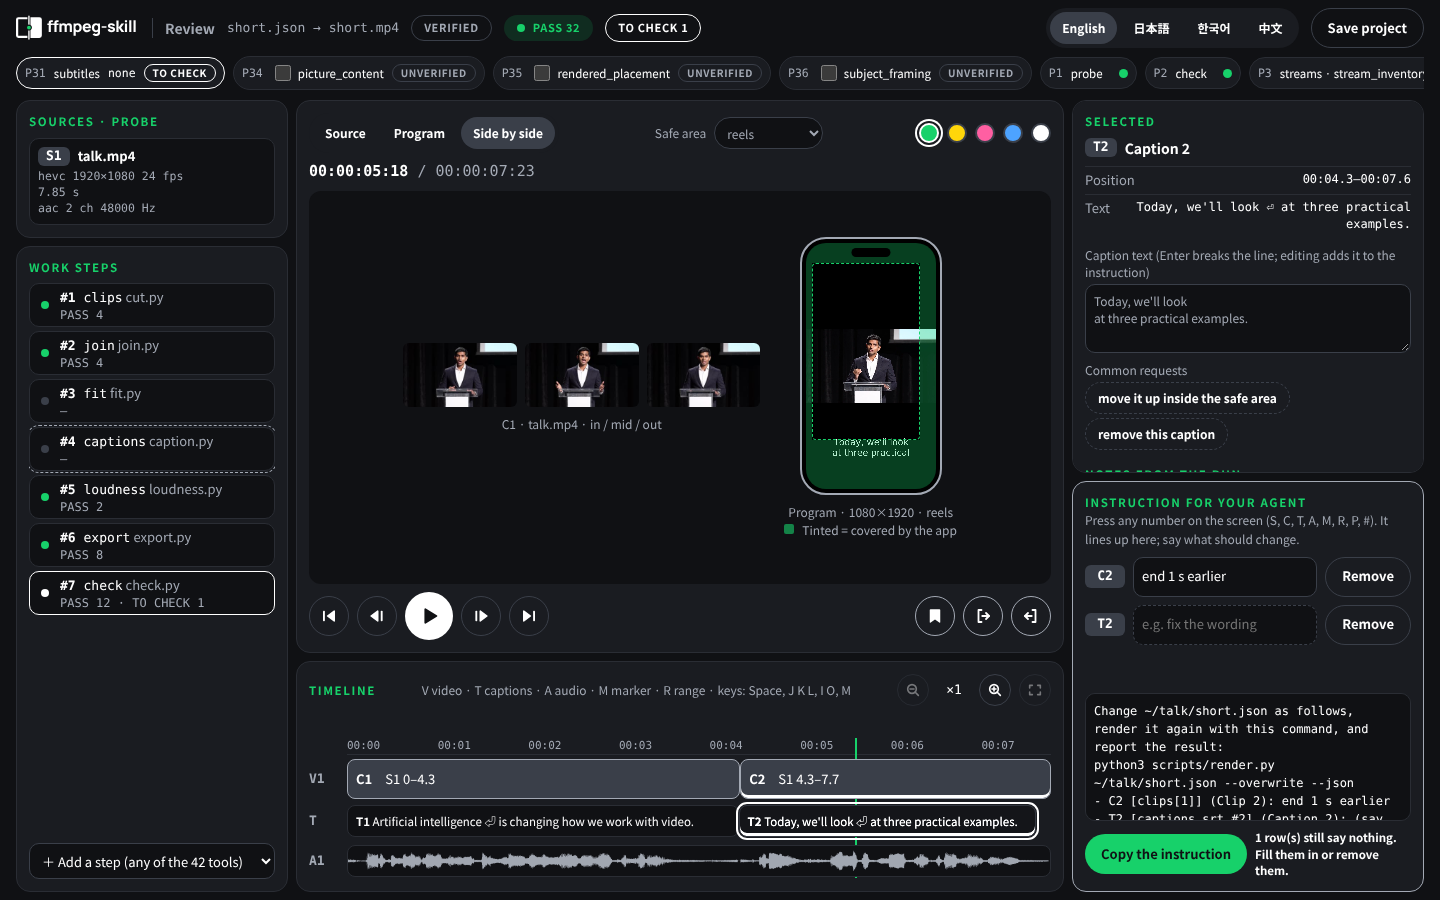
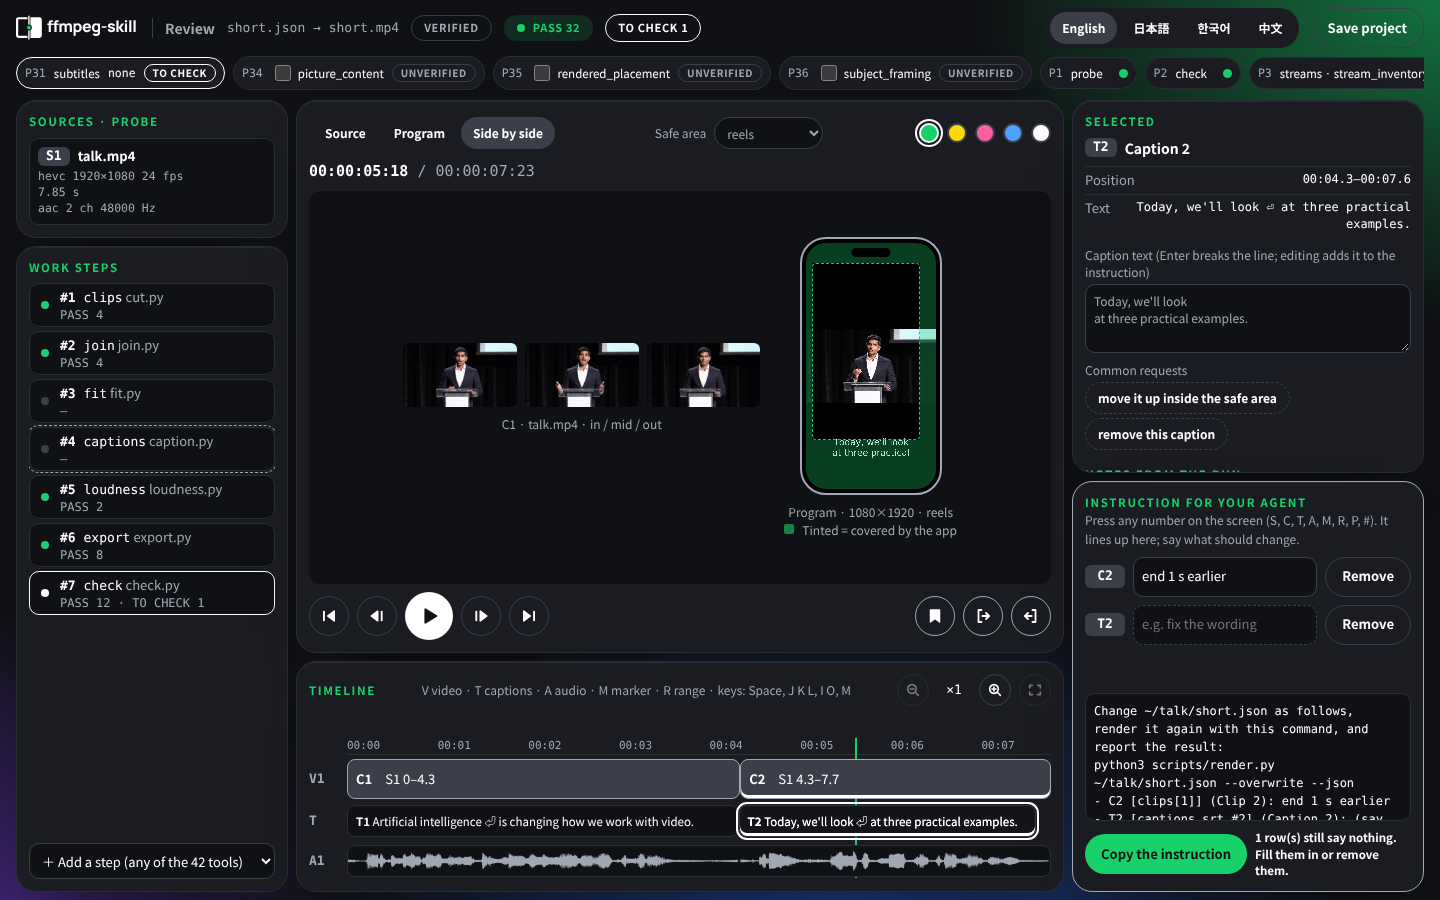
feat(review): the review page has the site's ground
Three soft glows behind the panels and rounder panel corners (20px). The panels stay opaque, so
the small type and the check results keep their contrast; the layout is unchanged. The site's
screenshots of the page are retaken.

Claude-Session: https://claude.ai/code/session_013tPrsGXLuaGU7t643QNUZs

Changed region(s): [[0.3438, 0.84, 0.8438, 1.0], [0.75, 0.0, 1.0, 0.2489], [0.0, 0.7778, 0.1562, 1.0]]

diff --git a/scripts/_review.html b/scripts/_review.html
@@ -11,7 +11,7 @@
   --green: #17d16a; --green-halo: rgba(23, 209, 106, 0.14);
   --sans: system-ui, -apple-system, "Segoe UI", "Hiragino Sans", "Yu Gothic UI", "Apple SD Gothic Neo", "Malgun Gothic", "PingFang SC", "Microsoft YaHei", "Noto Sans CJK JP", sans-serif;
   --mono: ui-monospace, SFMono-Regular, Menlo, Consolas, monospace;
-  --r: 14px;
+  --r: 20px;
 }
 html, body { height: 100%; }
 body { background: var(--ink); color: var(--text); font: 13px/1.45 var(--sans); font-variant-numeric: tabular-nums; }
@@ -189,6 +189,9 @@ textarea.field.area { min-height: 64px; padding: 8px 8px; resize: vertical; font
 .aud img { position: absolute; inset: 0; width: 100%; height: 100%; object-fit: fill; }
 .srcs { display: flex; flex-direction: column; gap: 8px; max-height: 210px; overflow-y: auto; }
 label.opt { gap: 4px; }
+/* the site's ground: three soft glows behind opaque panels, so the small type keeps its contrast */
+body { background: radial-gradient(46vw 460px at 100% 0, rgba(23,209,106,.50), transparent 70%), radial-gradient(52vw 520px at 58% 105%, rgba(37,99,235,.50), transparent 70%), radial-gradient(34vw 420px at 0 100%, rgba(124,58,237,.40), transparent 70%), var(--ink); background-attachment: fixed; }
+.panel { box-shadow: 0 1px 0 rgba(255,255,255,.06) inset, 0 24px 64px -40px rgba(0,0,0,.8); }
 </style></head><body>
 <template id="logo"><svg xmlns="http://www.w3.org/2000/svg" viewBox="0 0 902 256" class="logo" role="img" aria-label="ffmpeg-skill"><title>ffmpeg-skill</title><g transform="translate(-34,0)"><path fill="#FFFFFF" fill-rule="evenodd" d="M117.0,52 H52 A18,18 0 0 0 34,70 V186 A18,18 0 0 0 52,204 H117.0 V188 H52 A2,2 0 0 1 50,186 V70 A2,2 0 0 1 52,68 H117.0 Z M139.0,52 H204 A18,18 0 0 1 222,70 V186 A18,18 0 0 1 204,204 H139.0 V147.05 A22,22 0 0 0 139.0,108.95 Z M123.0,45.0 A5.0,5.0 0 0 1 133.0,45.0 V106.58 A22,22 0 0 0 123.0,106.58 Z M123.0,149.42 A22,22 0 0 0 133.0,149.42 V211.0 A5.0,5.0 0 0 1 123.0,211.0 Z"/><path fill="#17D16A" fill-rule="evenodd" d="M114,128 A14,14 0 1 0 142,128 A14,14 0 1 0 114,128 Z"/></g><g transform="translate(228.00,75.07) scale(1.1544303797468354)"><path fill="#FFFFFF" transform="translate(-3.00,73.50)" d="M11.5 0.0V-53.800000000000004Q11.5 -55.85 11.600000000000001 -58.45Q11.700000000000001 -61.050000000000004 12.425 -63.7Q13.15 -66.35000000000001 15.100000000000001 -68.5Q17.6 -71.3 20.525000000000002 -72.325Q23.450000000000003 -73.35000000000001 26.200000000000003 -73.42500000000001Q28.950000000000003 -73.5 30.900000000000002 -73.5H37.6V-62.5H31.400000000000002Q28.200000000000003 -62.5 26.650000000000002 -60.875Q25.1 -59.25 25.1 -57.0V0.0ZM3.0 -43.5V-54.0H37.6V-43.5ZM47.6 0.0V-53.800000000000004Q47.6 -55.85 47.7 -58.45Q47.800000000000004 -61.050000000000004 48.525000000000006 -63.7Q49.25 -66.35000000000001 51.2 -68.5Q53.7 -71.3 56.625 -72.325Q59.550000000000004 -73.35000000000001 62.30000000000001 -73.42500000000001Q65.05000000000001 -73.5 67.0 -73.5H73.7V-62.5H67.5Q64.30000000000001 -62.5 62.75000000000001 -60.875Q61.2 -59.25 61.2 -57.0V0.0ZM39.1 -43.5V-54.0H73.7V-43.5ZM144.2 0.0V-31.900000000000002Q144.2 -37.25 141.675 -40.225Q139.15 -43.2 134.7 -43.2Q131.85000000000002 -43.2 129.75 -41.875Q127.65 -40.550000000000004 126.47500000000001 -38.175000000000004Q125.30000000000001 -35.800000000000004 125.30000000000001 -32.7L119.60000000000001 -36.5Q119.60000000000001 -42.050000000000004 122.22500000000001 -46.300000000000004Q124.85000000000001 -50.550000000000004 129.275 -52.925000000000004Q133.7 -55.300000000000004 139.10000000000002 -55.300000000000004Q148.35000000000002 -55.300000000000004 153.07500000000002 -49.825Q157.8 -44.35 157.8 -35.5V0.0ZM79.10000000000001 0.0V-54.0H91.10000000000001V-36.1H92.80000000000001V0.0ZM111.7 0.0V-31.900000000000002Q111.7 -37.25 109.17500000000001 -40.225Q106.65 -43.2 102.2 -43.2Q97.95 -43.2 95.375 -40.275000000000006Q92.80000000000001 -37.35 92.80000000000001 -32.7L87.10000000000001 -36.7Q87.10000000000001 -42.0 89.75 -46.2Q92.4 -50.400000000000006 96.875 -52.85000000000001Q101.35000000000001 -55.300000000000004 106.9 -55.300000000000004Q113.25 -55.300000000000004 117.325 -52.60000000000001Q121.4 -49.900000000000006 123.35000000000001 -45.400000000000006Q125.30000000000001 -40.900000000000006 125.30000000000001 -35.5V0.0ZM194.8 1.5Q186.75 1.5 181.35000000000002 -2.25Q175.95000000000002 -6.0 173.22500000000002 -12.450000000000001Q170.5 -18.900000000000002 170.5 -27.0Q170.5 -35.1 173.2 -41.55Q175.9 -48.0 181.15 -51.75Q186.4 -55.5 194.10000000000002 -55.5Q201.85000000000002 -55.5 207.60000000000002 -51.8Q213.35000000000002 -48.1 216.52500000000003 -41.675Q219.70000000000002 -35.25 219.70000000000002 -27.0Q219.70000000000002 -18.900000000000002 216.57500000000002 -12.450000000000001Q213.45000000000002 -6.0 207.85000000000002 -2.25Q202.25 1.5 194.8 1.5ZM168.20000000000002 24.0V-54.0H180.20000000000002V-17.0H181.9V24.0ZM192.60000000000002 -10.600000000000001Q197.0 -10.600000000000001 199.8 -12.8Q202.60000000000002 -15.0 203.95000000000002 -18.725Q205.3 -22.450000000000003 205.3 -27.0Q205.3 -31.5 203.9 -35.225Q202.5 -38.95 199.575 -41.175000000000004Q196.65 -43.400000000000006 192.10000000000002 -43.400000000000006Q187.85000000000002 -43.400000000000006 185.22500000000002 -41.35000000000001Q182.60000000000002 -39.300000000000004 181.40000000000003 -35.6Q180.20000000000002 -31.900000000000002 180.20000000000002 -27.0Q180.20000000000002 -22.1 181.40000000000003 -18.400000000000002Q182.60000000000002 -14.700000000000001 185.32500000000002 -12.650000000000002Q188.05 -10.600000000000001 192.60000000000002 -10.600000000000001ZM253.3 1.5Q245.00000000000003 1.5 238.675 -2.075Q232.35000000000002 -5.65 228.77500000000003 -11.925Q225.20000000000002 -18.2 225.20000000000002 -26.3Q225.20000000000002 -35.15 228.70000000000002 -41.7Q232.20000000000002 -48.25 238.35000000000002 -51.875Q244.50000000000003 -55.5 252.50000000000003 -55.5Q261.0 -55.5 266.95000000000005 -51.5Q272.90000000000003 -47.5 275.75 -40.25Q278.6 -33.0 277.75 -23.200000000000003H264.3V-28.200000000000003Q264.3 -36.45 261.675 -40.075Q259.05 -43.7 253.10000000000002 -43.7Q246.15000000000003 -43.7 242.87500000000003 -39.475Q239.60000000000002 -35.25 239.60000000000002 -27.0Q239.60000000000002 -19.450000000000003 242.87500000000003 -15.325000000000003Q246.15000000000003 -11.200000000000001 252.50000000000003 -11.200000000000001Q256.5 -11.200000000000001 259.35 -12.950000000000001Q262.20000000000005 -14.700000000000001 263.70000000000005 -18.0L277.3 -14.100000000000001Q274.25 -6.7 267.675 -2.6Q261.1 1.5 253.3 1.5ZM235.4 -23.200000000000003V-33.300000000000004H271.20000000000005V-23.200000000000003ZM309.6 25.5Q305.0 25.5 300.85 24.025Q296.7 22.55 293.42499999999995 19.925Q290.15 17.3 288.1 13.8L300.7 7.7Q302.0 10.100000000000001 304.425 11.350000000000001Q306.85 12.600000000000001 309.7 12.600000000000001Q312.75 12.600000000000001 315.45 11.575000000000001Q318.15 10.55 319.775 8.525Q321.4 6.5 321.3 3.5V-12.200000000000001H323.0V-54.0H334.9V3.7Q334.9 5.7 334.725 7.475Q334.55 9.25 334.1 11.0Q332.8 15.950000000000001 329.275 19.150000000000002Q325.75 22.35 320.65 23.925Q315.55 25.5 309.6 25.5ZM308.4 1.5Q300.95 1.5 295.35 -2.25Q289.75 -6.0 286.625 -12.450000000000001Q283.5 -18.900000000000002 283.5 -27.0Q283.5 -35.25 286.675 -41.675Q289.85 -48.1 295.6 -51.8Q301.35 -55.5 309.1 -55.5Q316.8 -55.5 322.05 -51.75Q327.3 -48.0 330.0 -41.55Q332.7 -35.1 332.7 -27.0Q332.7 -18.900000000000002 329.975 -12.450000000000001Q327.25 -6.0 321.85 -2.25Q316.45 1.5 308.4 1.5ZM310.6 -10.600000000000001Q315.15 -10.600000000000001 317.875 -12.650000000000002Q320.6 -14.700000000000001 321.8 -18.400000000000002Q323.0 -22.1 323.0 -27.0Q323.0 -31.900000000000002 321.8 -35.6Q320.6 -39.300000000000004 317.975 -41.35000000000001Q315.35 -43.400000000000006 311.1 -43.400000000000006Q306.55 -43.400000000000006 303.625 -41.175000000000004Q300.7 -38.95 299.29999999999995 -35.225Q297.9 -31.5 297.9 -27.0Q297.9 -22.450000000000003 299.25 -18.725Q300.6 -15.0 303.4 -12.8Q306.2 -10.600000000000001 310.6 -10.600000000000001ZM345.4 -26.3V-36.800000000000004H375.4V-26.3ZM407.0 1.5Q396.79999999999995 1.5 390.525 -3.125Q384.25 -7.75 382.9 -16.2L396.79999999999995 -18.3Q397.65 -14.5 400.575 -12.350000000000001Q403.5 -10.200000000000001 408.0 -10.200000000000001Q411.7 -10.200000000000001 413.7 -11.625Q415.7 -13.05 415.7 -15.600000000000001Q415.7 -17.2 414.9 -18.175Q414.09999999999997 -19.150000000000002 411.32499999999993 -20.1Q408.54999999999995 -21.05 402.7 -22.6Q396.09999999999997 -24.3 392.15 -26.4Q388.2 -28.5 386.45 -31.425Q384.7 -34.35 384.7 -38.5Q384.7 -43.7 387.35 -47.525000000000006Q390.0 -51.35 394.825 -53.425Q399.65 -55.5 406.2 -55.5Q412.54999999999995 -55.5 417.44999999999993 -53.55Q422.34999999999997 -51.6 425.375 -48.0Q428.4 -44.400000000000006 429.09999999999997 -39.5L415.2 -37.0Q414.84999999999997 -40.0 412.59999999999997 -41.75Q410.34999999999997 -43.5 406.5 -43.800000000000004Q402.75 -44.050000000000004 400.475 -42.800000000000004Q398.2 -41.550000000000004 398.2 -39.2Q398.2 -37.800000000000004 399.17499999999995 -36.85Q400.15 -35.9 403.22499999999997 -34.9Q406.29999999999995 -33.9 412.59999999999997 -32.300000000000004Q418.75 -30.700000000000003 422.475 -28.575000000000003Q426.2 -26.450000000000003 427.9 -23.475Q429.59999999999997 -20.5 429.59999999999997 -16.3Q429.59999999999997 -8.0 423.59999999999997 -3.25Q417.59999999999997 1.5 407.0 1.5ZM437.99999999999994 0.0 438.09999999999997 -72.0H451.9V-28.0L470.2 -54.0H487.0L467.49999999999994 -27.0L488.29999999999995 0.0H470.59999999999997L451.9 -26.0V0.0ZM491.79999999999995 -61.5V-73.5H505.4V-61.5ZM491.79999999999995 0.0V-54.0H505.4V0.0ZM518.9 0.0V-73.5H532.5V0.0ZM546.0 0.0V-73.5H559.6V0.0Z"/></g></svg></template>
 <div id="app"></div>

diff --git a/CHANGELOG.md b/CHANGELOG.md
@@ -4,6 +4,7 @@
 
 ## Unreleased
 
+- **The review page has the site's ground.** Three soft glows sit behind the panels and the panels' corners are rounder (20px). The panels stay opaque, so the small type and the check results keep their contrast; the layout is unchanged.
 - **The showcase is rebuilt from 1080p footage and plays in the page's language.** Nine clips AI-generated with Google Veo and three shot on a phone (stabilised, a night shot lifted and denoised, 60 fps slowed down) replace the four earlier ones: a talk laid out with its slides (side by side, picture in picture, a cutaway, a captioned vertical short), a pause removed, a green-screen composite in a new room, a levelled horizon, colour, and speed and reframing. The talk, the composite and the reel exist in English and Japanese, and the site plays the one for the language shown. `demos/showcase.py` builds all of it; `docs/showcase.md` has the commands and what the build showed.
 - **The before/after gallery (`docs/demos.md`, the README's and the site's previews) is rebuilt on real pictures.** `demos/build.py` takes its pictures from `demos/footage/` in place of colour bars and fractals; the sound stays synthetic so the measured pauses and levels hold. The waveform previews are drawn as thin bars, the source in grey and the result in the brand green running to blue, and the loudness demo measures a real voice.
 - **The site and the README show the review page**, with a screenshot made from real footage in each language and the three steps to call it and send a change back.
